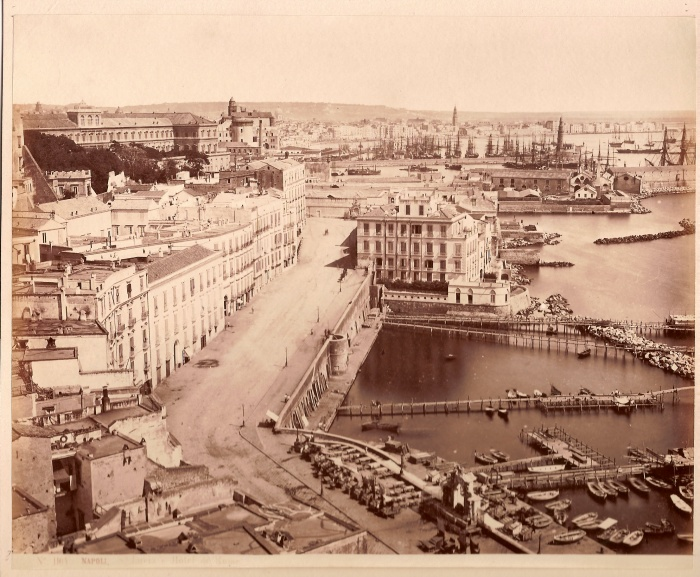
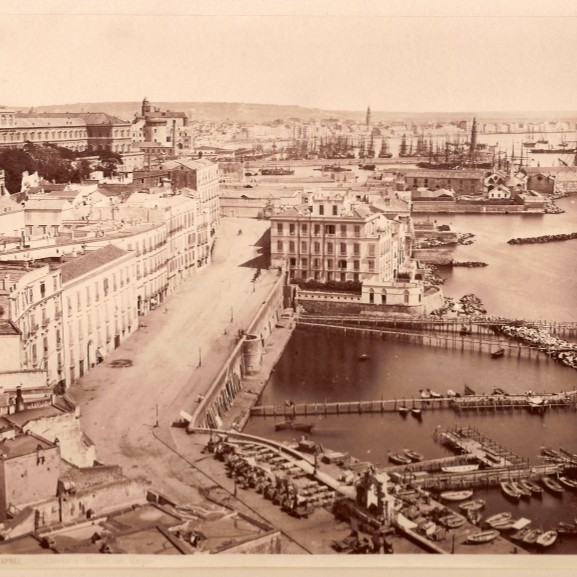
bubblemore

diff --git a/bubble.js b/bubble.js
@@ -137,11 +137,11 @@ function geoSimilarity(songA, songB) {
 // 5가지 요소의 가중치. 슬라이더로 실시간 조절 가능 (합이 100이 아니어도
 // computeSimilarity에서 알아서 비율로 정규화함)
 const DEFAULT_BUBBLE_WEIGHTS = {
-  geo: 25,
-  tag: 35,
+  geo: 20,
+  tag: 30,
   artist: 20,
-  writer: 10,
-  language: 10,
+  writer: 15,
+  language: 15,
 };
 const bubbleWeights = { ...DEFAULT_BUBBLE_WEIGHTS }; // 고정값 - 사이트에서 조절 불가
 
@@ -501,6 +501,11 @@ function initBubbleView() {
     }
   });
 
+  // 미리보기 창의 닫기(×) 버튼
+  document.getElementById("bubble-preview-close")?.addEventListener("click", () => {
+    hideBubblePreview();
+  });
+
   function neighborIdsOf(nodeId) {
     const ids = new Set();
     bubbleLinks.forEach(l => {
@@ -517,32 +522,78 @@ function initBubbleView() {
     return `translate(${d.x},${d.y})`;
   }
 
-  hitAreaSel.on("mouseenter", (event, d) => {
+  // -------------------------------------
+  // 마우스오버 강조: mouseenter/mouseleave 대신 "지금 마우스 좌표에서
+  // 가장 가까운 버블이 뭔가"를 직접 계산하는 방식.
+  //
+  // mouseenter/mouseleave는 "마우스가 움직여서" 안팎으로 지나갈 때만
+  // 발생함. 그런데 이 버블들은 force simulation으로 계속 움직이기 때문에,
+  // 마우스는 가만히 있는데 버블이 마우스 밑으로 들어왔다 나갔다 하는
+  // 경우가 흔함 - 이때는 마우스가 안 움직였으니 mouseenter/mouseleave가
+  // 아예 안 뜨거나(호버 상태가 실제로는 벗어났는데 안 풀림 = 계속 켜져
+  // 있는 것처럼 보임), 버블이 스쳐 지나가는 순간에만 잠깐 켜졌다 꺼지며
+  // 깜빡이는 것처럼 보임. 그래서 매 tick(버블이 움직일 때)마다, 그리고
+  // 마우스가 움직일 때마다 "지금 마우스 좌표를 기준으로 봤을 때 어떤
+  // 버블이 호버되어야 하는가"를 다시 계산해서 항상 실제 상태와 맞춤
+  let bubbleHoveredNodeId = null;
+  let bubbleLastPointerEvent = null; // tick마다 같은 마우스 좌표로 다시 계산할 때 씀
 
-    // 크기를 키우는 대신 클래스만 토글 - 테두리 강조/글로우는 CSS(:hover 아님,
-    // 명시적 클래스)로 처리. 처음 접속 직후 시뮬레이션이 아직 활발히 움직이는
-    // 동안 버블 크기 자체가 바뀌면 판정 경계가 마우스를 스치며 깜빡이던
-    // 문제가 있었어서, 크기는 아예 안 바꾸는 쪽으로 바꿈
-    d3.select(event.currentTarget.parentNode).classed("bubble-node-hovered", true);
+  function findHoveredNodeId(pointerEvent) {
+    if (!pointerEvent) return null;
 
-    const neighborIds = neighborIdsOf(d.id);
+    // bubbleInnerGroup 기준 좌표로 변환 - 확대/축소(zoom)나 화면 크기와
+    // 상관없이 버블의 x/y(force simulation 좌표)와 같은 기준이 됨
+    const [mx, my] = d3.pointer(pointerEvent, bubbleInnerGroup.node());
+
+    let closestId = null;
+    let closestDistance = Infinity;
+
+    bubbleNodesData.forEach(n => {
+      const dx = n.x - mx;
+      const dy = n.y - my;
+      const distance = Math.sqrt(dx * dx + dy * dy);
+      const hitRadius = n.radius + 4; // bubble-hit-area 반지름과 동일
+
+      if (distance <= hitRadius && distance < closestDistance) {
+        closestDistance = distance;
+        closestId = n.id;
+      }
+    });
+
+    return closestId;
+  }
+
+  function applyHoverHighlight(nodeId) {
+    if (nodeId === bubbleHoveredNodeId) return; // 바뀐 게 없으면 DOM 안 건드림
+    bubbleHoveredNodeId = nodeId;
+
+    nodeSel.classed("bubble-node-hovered", n => n.id === nodeId);
+
+    const neighborIds = nodeId === null ? null : neighborIdsOf(nodeId);
     nodeSel.select(".bubble-border")
-      .classed("bubble-similar", n => neighborIds.has(n.id));
+      .classed("bubble-similar", n => !!neighborIds && neighborIds.has(n.id));
 
     linkSel.classed("bubble-link-active", l => {
+      if (nodeId === null) return false;
       const s = typeof l.source === "object" ? l.source.id : l.source;
       const t = typeof l.target === "object" ? l.target.id : l.target;
-      return s === d.id || t === d.id;
+      return s === nodeId || t === nodeId;
     });
-  });
+  }
 
-  hitAreaSel.on("mouseleave", (event, d) => {
+  function refreshHoverFromLastPointer() {
+    applyHoverHighlight(findHoveredNodeId(bubbleLastPointerEvent));
+  }
 
-    d3.select(event.currentTarget.parentNode).classed("bubble-node-hovered", false);
-
-    nodeSel.select(".bubble-border").classed("bubble-similar", false);
-    linkSel.classed("bubble-link-active", false);
-  });
+  bubbleSvg
+    .on("pointermove", event => {
+      bubbleLastPointerEvent = event;
+      applyHoverHighlight(findHoveredNodeId(event));
+    })
+    .on("pointerleave", () => {
+      bubbleLastPointerEvent = null;
+      applyHoverHighlight(null);
+    });
 
   const drag = d3.drag()
     .on("start", (event, d) => {
@@ -568,12 +619,12 @@ function initBubbleView() {
       "link",
       d3.forceLink(bubbleLinks)
         .id(d => d.id)
-        .distance(d => (12 + (1 - d.sim) * 65) * 1.2)
+        .distance(d => (18 + (1 - d.sim) * 65) * 1.2)
     )
-    .force("charge", d3.forceManyBody().strength(-110))
-    .force("x", d3.forceX(BUBBLE_WIDTH / 2).strength(0.03))
-    .force("y", d3.forceY(BUBBLE_HEIGHT / 2).strength(0.03))
-    .force("collide", d3.forceCollide(d => d.radius + 3))
+    .force("charge", d3.forceManyBody().strength(-120))
+    .force("x", d3.forceX(BUBBLE_WIDTH / 2).strength(0.02))
+    .force("y", d3.forceY(BUBBLE_HEIGHT / 2).strength(0.02))
+    .force("collide", d3.forceCollide(d => d.radius + 5))
     .on("tick", () => {
       linkSel
         .attr("x1", d => d.source.x)
@@ -582,10 +633,14 @@ function initBubbleView() {
         .attr("y2", d => d.target.y);
 
       nodeSel.attr("transform", nodeTransform);
+
+      // 버블들이 움직였으니, 마우스는 가만히 있어도 호버 상태가 바뀌었을
+      // 수 있음 - 매 tick마다 다시 확인 (위 설명 참고)
+      refreshHoverFromLastPointer();
     });
 
   bubbleZoomBehavior = d3.zoom()
-    .scaleExtent([0.05, 5])
+    .scaleExtent([0.2, 5])
     .on("zoom", event => {
       bubbleInnerGroup.attr("transform", event.transform);
     });

diff --git a/style.css b/style.css
@@ -903,12 +903,11 @@ a:hover {
 ======================================== */
 @media (max-width: 750px) {
 
-    .bubble-main-row {
-        flex-direction: column;
-    }
-
     #bubble-preview {
-        width: 100%;
+        left: var(--space-2);
+        right: var(--space-2);
+        bottom: var(--space-2);
+        width: auto;
     }
 
     body {
@@ -1171,12 +1170,6 @@ body.bubble-page {
     text-decoration: underline;
 }
 
-body.bubble-page .bubble-controls {
-    flex: 0 0 auto;
-    padding: 0 var(--space-5);
-    margin-bottom: var(--space-3);
-}
-
 body.bubble-page .bubble-main-row {
     flex: 1 1 auto;
     min-height: 0;
@@ -1199,10 +1192,6 @@ body.bubble-page #bubble-svg {
         padding: var(--space-3);
     }
 
-    body.bubble-page .bubble-controls {
-        padding: 0 var(--space-3);
-    }
-
     body.bubble-page .bubble-main-row {
         margin: 0 var(--space-3) var(--space-3);
     }
@@ -1211,16 +1200,6 @@ body.bubble-page #bubble-svg {
 /* ========================================
    버블 뷰
 ======================================== */
-
-.bubble-controls {
-    margin-bottom: var(--space-4);
-}
-
-.bubble-hint {
-    color: #666;
-    font-size: 0.9rem;
-    line-height: 1.6;
-}
 
 .bubble-main-row {
     display: flex;
@@ -1241,9 +1220,14 @@ body.bubble-page #bubble-svg {
     overflow: hidden;
 }
 
+/* 버블을 클릭하면 옆이 아니라 버블 화면 위에 떠서 보이는 작은 미리보기 창 */
 #bubble-preview {
-    flex-shrink: 0;
+    position: absolute;
+    bottom: var(--space-3);
+    right: var(--space-3);
     width: 260px;
+    max-height: calc(100% - var(--space-3) * 2);
+    overflow-y: auto;
 
     display: flex;
     flex-direction: column;
@@ -1254,11 +1238,37 @@ body.bubble-page #bubble-svg {
     padding: var(--space-4);
 
     box-shadow:
-        0 2px 12px rgba(0, 0, 0, 0.08);
+        0 8px 28px rgba(0, 0, 0, 0.22);
+
+    z-index: 5;
 }
 
 #bubble-preview.hidden {
     display: none;
+}
+
+#bubble-preview-close {
+    position: absolute;
+    top: var(--space-2);
+    right: var(--space-2);
+
+    appearance: none;
+    border: none;
+    background: transparent;
+
+    width: 24px;
+    height: 24px;
+    border-radius: 50%;
+
+    font-size: 1.1rem;
+    line-height: 1;
+    color: #888;
+    cursor: pointer;
+}
+
+#bubble-preview-close:hover {
+    background: #f0f3f7;
+    color: #333;
 }
 
 .bubble-preview-artwork {

diff --git a/bubble.html b/bubble.html
@@ -73,12 +73,6 @@
   <!-- 곡 유사도 버블 뷰 (실제로 보여줄 화면 - 화면 전체를 씀) -->
   <div id="bubble-view">
 
-    <div class="bubble-controls">
-      <p class="bubble-hint">
-        비슷한 곡끼리(같은 아티스트·작곡가·언어·태그·인접 국가) 가까이 모여요. 버블을 한 번 클릭하면 옆에 미리보기가 뜨고, 같은 버블을 한 번 더 클릭하면 그 곡으로 이동해요. 드래그해서 옮길 수도 있어요.
-      </p>
-    </div>
-
     <div class="bubble-main-row">
 
       <div id="bubble-container">
@@ -91,15 +85,17 @@
             확대 원래대로
           </button>
         </div>
-      </div>
 
-      <div id="bubble-preview" class="hidden">
-        <div class="bubble-preview-artwork placeholder"></div>
-        <div class="bubble-preview-body">
-          <h3 id="bubble-preview-title"></h3>
-          <p id="bubble-preview-artist"></p>
-          <p id="bubble-preview-meta"></p>
-          <p class="bubble-preview-hint">버블을 한 번 더 클릭하면 곡 상세로 이동해요</p>
+        <!-- 버블 클릭 시 화면(버블 캔버스) 위에 떠서 보여주는 작은 미리보기 창 -->
+        <div id="bubble-preview" class="hidden">
+          <button type="button" id="bubble-preview-close" aria-label="미리보기 닫기">×</button>
+          <div class="bubble-preview-artwork placeholder"></div>
+          <div class="bubble-preview-body">
+            <h3 id="bubble-preview-title"></h3>
+            <p id="bubble-preview-artist"></p>
+            <p id="bubble-preview-meta"></p>
+            <p class="bubble-preview-hint">버블을 한 번 더 클릭하면 곡 상세로 이동해요</p>
+          </div>
         </div>
       </div>
 

diff --git a/index.html b/index.html
@@ -226,7 +226,7 @@
         <div class="about-rule">
           <span class="about-rule-icon">🎵</span>
           <p>
-            국내 음악은 군가 등 특수한 것들만 한정적으로 등록-하려고 했는데, 그냥 등록할까 고민 중입니다. 북한 음악은 국외 음악으로 간주합니다.
+            국내 음악은 군가나 다국적/다언어 곡들만 한정적으로 등록하려고 했는데, 그냥 다 등록할까 고민 중입니다. 북한 음악은 국외 음악으로 간주합니다.
           </p>
         </div>
         <div class="about-rule">
